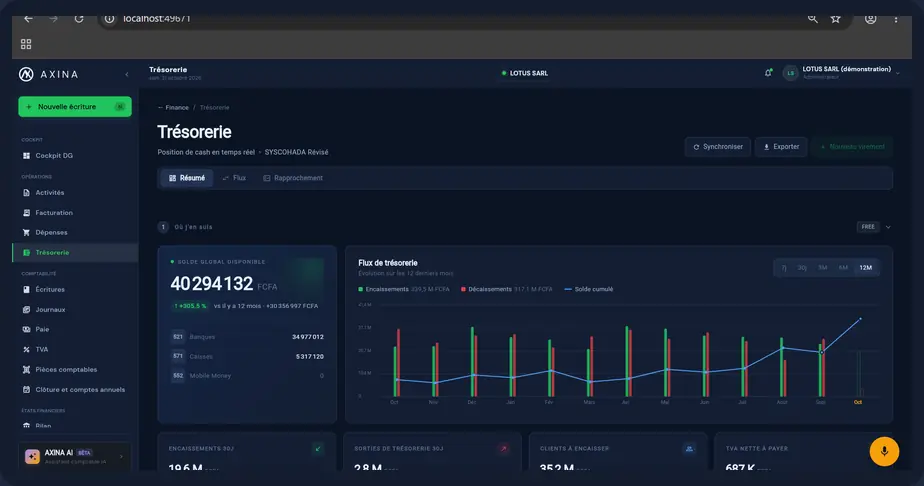
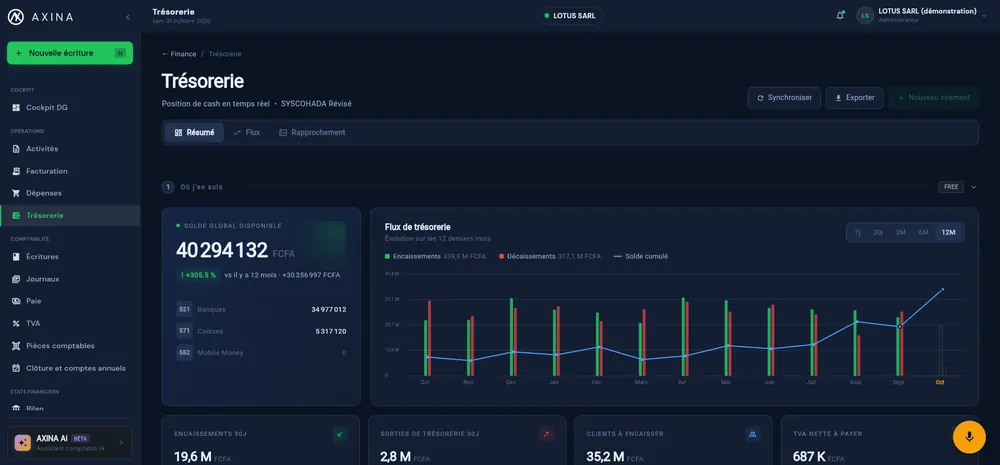
fix: device mockups side by side, crop localhost, AXINA blue cards

diff --git a/index.html b/index.html
@@ -32,7 +32,7 @@
 <link rel="apple-touch-icon" href="/assets/img/apple-touch-icon.png?v=3">
 <link rel="manifest" href="/site.webmanifest">
 <link rel="preload" href="/assets/fonts/geist.woff2" as="font" type="font/woff2" crossorigin>
-<link rel="stylesheet" href="/assets/axina.css?v=c8efe430">
+<link rel="stylesheet" href="/assets/axina.css?v=devices-blue-1">
 <script defer src="/assets/axina.js?v=c8efe430"></script>
 <script type="application/ld+json">{"@context":"https://schema.org","@graph":[{"@type":"Organization","@id":"https://axina.pro/#organisation","name":"AXINA","url":"https://axina.pro/","logo":"https://axina.pro/assets/img/icon-512.png","description":"Infrastructure financière de confiance pour les entreprises et les cabinets de l'espace OHADA.","areaServed":"Espace OHADA","contactPoint":{"@type":"ContactPoint","contactType":"customer support","telephone":"+240222619606","availableLanguage":["fr"]}},{"@type":"WebSite","@id":"https://axina.pro/#site","name":"AXINA","url":"https://axina.pro/","inLanguage":"fr","publisher":{"@id":"https://axina.pro/#organisation"}},{"@type":"SoftwareApplication","name":"AXINA","applicationCategory":"BusinessApplication","applicationSubCategory":"Comptabilité SYSCOHADA","operatingSystem":"Web","url":"https://axina.pro/","publisher":{"@id":"https://axina.pro/#organisation"},"description":"Comptabilité SYSCOHADA tenue en temps réel, écritures scellées et chaînées, pilotage, dossier bancaire et collaboration avec le cabinet comptable.","offers":{"@type":"AggregateOffer","priceCurrency":"XOF","lowPrice":"0","highPrice":"90000","offerCount":"9"}},{"@type":"FAQPage","mainEntity":[{"@type":"Question","name":"Qu'est-ce que le Data Integrity Protocol (DIP) ?","acceptedAnswer":{"@type":"Answer","text":"Le DIP est la couche d'intégrité d'AXINA. Il horodate chaque écriture, en calcule une empreinte SHA-256 et la chaîne à la précédente. Factures et dossiers portent un QR code qui permet de vérifier, en quelques secondes, qu'ils correspondent au registre. Le DIP établit que les chiffres n'ont pas bougé. Il ne remplace pas le visa d'un professionnel du chiffre."}},{"@type":"Question","name":"AXINA remplace-t-il le comptable ou le cabinet ?","acceptedAnswer":{"@type":"Answer","text":"Non. AXINA est conçu pour travailler avec les professionnels du chiffre. Le cabinet reste le garant de la validation comptable et fiscale, et son visa est nominatif. AXINA automatise les tâches répétitives pour que le comptable se concentre sur le conseil."}},{"@type":"Question","name":"AXINA respecte-t-il le SYSCOHADA ?","acceptedAnswer":{"@type":"Answer","text":"AXINA est conçu pour l'espace OHADA. Le plan comptable, les journaux et les états financiers suivent le SYSCOHADA révisé, dans les 17 pays membres. Les spécificités fiscales nationales sont paramétrées par pays."}},{"@type":"Question","name":"Les banques acceptent-elles les dossiers AXINA ?","acceptedAnswer":{"@type":"Answer","text":"La décision appartient toujours à la banque. Les dossiers AXINA suivent les formats et indicateurs financiers qu'elle utilise, et le QR code lui permet de vérifier l'origine des chiffres. Un dossier propre facilite l'instruction ; il ne garantit pas l'accord."}},{"@type":"Question","name":"Qui peut vérifier un document scellé DIP ?","acceptedAnswer":{"@type":"Answer","text":"N'importe qui. En scannant le QR code, une banque, un investisseur, un partenaire ou une administration consulte la fiche de vérification du document, sans compte AXINA."}},{"@type":"Question","name":"Mon cabinet peut-il travailler sur mon dossier ?","acceptedAnswer":{"@type":"Answer","text":"Oui, à partir de l'offre Business. Vous autorisez votre cabinet, vous définissez le périmètre de son mandat, et vous pouvez le révoquer. Le cabinet paie son propre abonnement AXINA Cabinet ; il ne remplace pas le vôtre."}},{"@type":"Question","name":"Comment fonctionne l'IA ?","acceptedAnswer":{"@type":"Answer","text":"Elle est désactivée par défaut. Vous pouvez utiliser un modèle local sur votre poste, ou votre propre clé API. Un service IA dans le cloud n'est possible qu'avec le consentement du dirigeant, daté et révocable. Dans tous les cas, l'IA commente des chiffres déjà calculés et n'écrit jamais dans votre comptabilité."}},{"@type":"Question","name":"Mes données sont-elles sécurisées ?","acceptedAnswer":{"@type":"Answer","text":"Vos données sont chiffrées en transit, hébergées sur des serveurs sécurisés, et jamais partagées sans votre autorisation. Seuls vous, votre cabinet sous mandat et les personnes que vous autorisez y ont accès."}},{"@type":"Question","name":"AXINA fonctionne-t-il sans connexion ?","acceptedAnswer":{"@type":"Answer","text":"AXINA privilégie un fonctionnement local. Les modules compatibles continuent de fonctionner hors ligne et se synchronisent au retour de la connexion."}},{"@type":"Question","name":"Comment démarrer ?","acceptedAnswer":{"@type":"Answer","text":"Créez votre compte avec l'offre Essentiel, gratuite, configurez votre entreprise, et passez à Business ou Premium quand vous en avez besoin."}},{"@type":"Question","name":"Puis-je changer de formule ?","acceptedAnswer":{"@type":"Answer","text":"Oui, vous pouvez passer à une formule supérieure à tout moment. Les modalités de facturation figurent dans vos conditions d'abonnement."}},{"@type":"Question","name":"Puis-je reprendre mes données existantes ?","acceptedAnswer":{"@type":"Answer","text":"Oui. AXINA importe vos données comptables existantes. La migration est un service à part, chiffré selon le volume et la complexité."}}]}]}</script>
 </head>
@@ -77,32 +77,34 @@
 <main id="main">
 
 <!-- HERO -->
-<section class="hero" style="background: linear-gradient(160deg, #0b1e3a 0%, #122a4a 50%, #0a1628 100%);">
+<section class="hero hero-blue">
   <div class="hero-glow"></div>
   <div class="wrap">
-    <div class="hero-inner" style="display:grid; grid-template-columns: 1fr 1fr; gap: 32px; align-items: center; padding: 70px 0 50px;">
+    <div class="hero-inner">
       <div>
-        <div class="hero-badge"><b>Nouveau</b> AXINA Cabinet · production en temps réel</div>
-        <h1 class="h-hero" style="font-size: clamp(46px, 5.5vw, 68px); line-height: .95; margin: 14px 0 18px;">
-          Structurez.<br>Scellez.<br>Pilotez.
-        </h1>
-        <p class="lead" style="font-size: 17.5px; max-width: 400px; color: rgba(255,255,255,.85);">
-          Votre comptabilité SYSCOHADA en temps réel, scellée et prête pour le financement.
-        </p>
-        <div class="hero-ctas" style="margin-top: 24px;">
+        <div class="hero-badge"><b>Nouveau</b>AXINA Cabinet relie le cabinet à ses clients, en temps réel</div>
+        <h1 class="h-hero">Structurez.<br>Scellez.<br>Pilotez.</h1>
+        <p class="lead">AXINA tient votre comptabilité SYSCOHADA au fil de l'eau, scelle chaque écriture dans un grand livre chaîné et vous donne les chiffres pour décider. Le financement devient la suite logique.</p>
+        <div class="hero-ctas">
           <button class="btn btn-seal" type="button" data-open="m-contact" data-preset="Créer mon compte AXINA">Créer mon compte gratuit</button>
           <a class="btn btn-ghost" href="/demo">Voir la démo</a>
         </div>
-        <div class="hero-proof" style="margin-top: 28px; gap: 20px;">
-          <div><strong>17 pays</strong> OHADA</div>
-          <div><strong>DIP</strong> SHA-256 chaîné</div>
-          <div><strong>0 FCFA</strong> pour démarrer</div>
+        <div class="hero-proof">
+          <div><strong>17 pays</strong>de l'espace OHADA</div>
+          <div><strong>SHA-256</strong>empreinte chaînée par écriture</div>
+          <div><strong>0 FCFA</strong>pour démarrer avec Essentiel</div>
         </div>
       </div>
-
-      <div style="display: flex; flex-direction: column; gap: 16px; align-items: flex-end;">
-        <img src="/assets/screenshots/cockpit.webp" alt="Cockpit AXINA" style="width: 78%; border-radius: 14px; box-shadow: 0 20px 50px -15px rgba(0,0,0,.6);">
-        <img src="/assets/screenshots/journaux.webp" alt="Journaux DIP" style="width: 62%; border-radius: 12px; box-shadow: 0 15px 40px -12px rgba(0,0,0,.7); margin-right: 8%;">
+      <div class="device-stage">
+        <div class="laptop">
+          <div class="laptop-lid">
+            <img src="/assets/screenshots/cockpit.webp" width="1400" height="650" alt="Cockpit AXINA sur ordinateur">
+          </div>
+          <div class="laptop-base" aria-hidden="true"><i></i></div>
+        </div>
+        <div class="tablet">
+          <img src="/assets/screenshots/depenses.webp" width="900" height="418" alt="Dépenses AXINA sur tablette">
+        </div>
       </div>
     </div>
   </div>
@@ -230,21 +232,24 @@
 
     <!-- Entreprises -->
     
-          <div class="ss-grid" style="margin-top:28px">
-            <figure class="ss-card">
-              <img src="/assets/screenshots/journaux.png" alt="Journaux scellés DIP" loading="lazy">
-              <figcaption>Journaux · 100 % scellés DIP</figcaption>
-            </figure>
-            <figure class="ss-card">
-              <img src="/assets/screenshots/tresorerie.png" alt="Trésorerie en temps réel" loading="lazy">
-              <figcaption>Trésorerie consolidée · flux 12 mois</figcaption>
-            </figure>
-            <figure class="ss-card">
-              <img src="/assets/screenshots/bilan.png" alt="Bilan SYSCOHADA" loading="lazy">
-              <figcaption>Bilan · ratios et verdict</figcaption>
-            </figure>
-          </div>
     <div class="panel" role="tabpanel" id="p-ent" aria-labelledby="u-ent">
+      <div class="device-row">
+        <figure>
+          <div class="mini-lid"><img src="/assets/screenshots/journaux.webp" width="1000" height="465" alt="Journaux scellés DIP" loading="lazy"></div>
+          <div class="mini-base" aria-hidden="true"></div>
+          <figcaption>Journaux · 100 % scellés DIP</figcaption>
+        </figure>
+        <figure>
+          <div class="mini-lid"><img src="/assets/screenshots/tresorerie.webp" width="1000" height="465" alt="Trésorerie en temps réel" loading="lazy"></div>
+          <div class="mini-base" aria-hidden="true"></div>
+          <figcaption>Trésorerie consolidée · flux 12 mois</figcaption>
+        </figure>
+        <figure>
+          <div class="mini-lid"><img src="/assets/screenshots/bilan.webp" width="1000" height="465" alt="Bilan SYSCOHADA" loading="lazy"></div>
+          <div class="mini-base" aria-hidden="true"></div>
+          <figcaption>Bilan · ratios et verdict</figcaption>
+        </figure>
+      </div>
       <div>
         <h3>Pilotez votre activité. Préparez votre financement.</h3>
         <p class="lead">Vos chiffres en temps réel, votre comptabilité OHADA tenue au fil de l'eau, votre dossier bancaire prêt à partir.</p>
@@ -445,17 +450,18 @@
     <div class="sec-head">
       <div class="kicker">AXINA Cabinet</div>
       <h2 class="h-sec">L'atelier de production du cabinet.</h2>
-      <div class="ss-grid">
-        <figure class="ss-card">
-          <img src="/assets/screenshots/cabinet-portefeuille.png" alt="Portefeuille clients AXINA Cabinet" loading="lazy">
-          <figcaption>Portefeuille multi-clients · scores · pipeline Prépa → Scellé</figcaption>
-        </figure>
-        <figure class="ss-card">
-          <img src="/assets/screenshots/cabinet-bannette.png" alt="Bannette de production cabinet" loading="lazy">
-          <figcaption>Bannette · tickets · cycle et couverture DIP 100 %</figcaption>
-        </figure>
-      </div>
       <p class="lead">Chaque dossier client avance dans une bannette, du premier rapprochement au scellement. Qui a fait quoi, quand et à quel titre : tout est tracé.</p>
+    </div>
+    <div class="device-stage device-stage-light">
+      <div class="laptop">
+        <div class="laptop-lid">
+          <img src="/assets/screenshots/cabinet-bannette.webp" width="1200" height="558" alt="Bannette de production AXINA Cabinet" loading="lazy">
+        </div>
+        <div class="laptop-base" aria-hidden="true"><i></i></div>
+      </div>
+      <div class="tablet">
+        <img src="/assets/screenshots/messages.webp" width="900" height="418" alt="Messages cabinet et entreprise sur tablette" loading="lazy">
+      </div>
     </div>
     <div class="pipeline">
       <div class="stage"><span class="n">Étape 1</span><h4>Préparation</h4><p>Le collaborateur rassemble les pièces, lie les écritures, demande ce qui manque au client.</p><div class="who">Collaborateur</div></div>

diff --git a/assets/axina.css b/assets/axina.css
@@ -215,7 +215,7 @@ section { position: relative; }
 .guide-opt:hover { border-color: var(--line-2); }
 .guide-opt[aria-pressed="true"] { border-color: var(--ink); box-shadow: 0 0 0 1px var(--ink); }
 .guide-opt svg { width: 18px; height: 18px; color: var(--ink-3); flex: none; }
-.guide-answer { background: var(--night); color: var(--white); border-radius: var(--r-l); padding: clamp(26px, 3.4vw, 40px); align-self: end; display: flex; flex-direction: column; justify-content: space-between; gap: 28px; position: relative; overflow: hidden; }
+.guide-answer { background: linear-gradient(165deg, #12315f, #0c2344); color: var(--white); border-radius: var(--r-l); padding: clamp(26px, 3.4vw, 40px); align-self: end; display: flex; flex-direction: column; justify-content: space-between; gap: 28px; position: relative; overflow: hidden; }
 .guide-answer::after { content: ""; position: absolute; right: -80px; bottom: -80px; width: 260px; height: 260px; border-radius: 50%; background: radial-gradient(circle, rgba(245, 165, 36, .25), transparent 70%); }
 .guide-answer h3 { font-size: 28px; margin-bottom: 14px; }
 .guide-answer p { color: var(--mist); font-size: 17px; }
@@ -280,7 +280,7 @@ details.more[open] summary svg { transform: rotate(180deg); }
 .shot-photo { border-radius: var(--r-l); overflow: hidden; aspect-ratio: 16 / 11; }
 .shot-photo img { width: 100%; height: 100%; object-fit: cover; }
 .shot-ui { position: relative; margin: -110px 0 0 auto; width: min(92%, 520px); background: var(--white); color: var(--ink); border-radius: 18px; box-shadow: 0 30px 70px -30px rgba(13, 23, 41, .45), 0 0 0 1px rgba(13, 23, 41, .06); padding: 18px; font-size: 13.5px; }
-.shot-ui.dark-ui { background: var(--night-2); color: var(--white); box-shadow: var(--shadow-float); }
+.shot-ui.dark-ui { background: linear-gradient(180deg, #16386a, #0e2a52); color: var(--white); box-shadow: var(--shadow-float); }
 .ui-head { display: flex; align-items: center; justify-content: space-between; margin-bottom: 14px; gap: 10px; }
 .ui-head b { font-size: 14.5px; }
 .ui-tag { font-size: 12px; font-weight: 600; padding: 4px 9px; border-radius: 999px; background: var(--green-wash); color: var(--green); white-space: nowrap; }
@@ -331,7 +331,7 @@ details.more[open] summary svg { transform: rotate(180deg); }
 .steps li::before { counter-increment: s; content: counter(s); width: 40px; height: 40px; border-radius: 12px; display: grid; place-items: center; font-family: var(--f-display); font-weight: 700; background: var(--ink); color: var(--white); }
 .steps h4 { font-size: 21px; margin-bottom: 6px; letter-spacing: -.015em; }
 .steps p { margin: 0; color: var(--ink-2); }
-.chain-card { background: var(--night); color: var(--white); border-radius: var(--r-l); padding: 22px; box-shadow: var(--shadow-card); }
+.chain-card { background: linear-gradient(165deg, #12315f, #0c2344); color: var(--white); border-radius: var(--r-l); padding: 22px; box-shadow: var(--shadow-card); }
 .block { border: 1px solid var(--line-dark); border-radius: 12px; padding: 12px 14px; font-family: var(--f-mono); font-size: 12px; color: var(--mist); position: relative; background: rgba(255, 255, 255, .02); }
 .block + .block { margin-top: 26px; }
 .block + .block::before { content: ""; position: absolute; left: 50%; top: -27px; width: 2px; height: 26px; background: linear-gradient(var(--seal), rgba(245, 165, 36, .2)); }
@@ -362,7 +362,7 @@ details.more[open] summary svg { transform: rotate(180deg); }
 .ai-mode { padding: 14px 18px; border-radius: var(--r-m); background: var(--white); border: 1px solid var(--line); }
 .ai-mode b { font-size: 16px; margin-right: 6px; }
 .ai-mode p { margin: 0; font-size: 15px; color: var(--ink-2); display: inline; }
-.voice { display: flex; align-items: center; gap: 16px; margin-top: 18px; padding: 16px 18px; border-radius: var(--r-m); background: var(--night); color: var(--white); }
+.voice { display: flex; align-items: center; gap: 16px; margin-top: 18px; padding: 16px 18px; border-radius: var(--r-m); background: linear-gradient(165deg, #12315f, #0c2344); color: var(--white); }
 .voice .wave { display: flex; gap: 3px; align-items: center; height: 28px; }
 .voice .wave i { width: 3px; border-radius: 3px; background: var(--seal); animation: wave 1.2s ease-in-out infinite; }
 .voice .wave i:nth-child(2) { animation-delay: .1s; } .voice .wave i:nth-child(3) { animation-delay: .2s; } .voice .wave i:nth-child(4) { animation-delay: .3s; } .voice .wave i:nth-child(5) { animation-delay: .4s; }
@@ -372,7 +372,7 @@ details.more[open] summary svg { transform: rotate(180deg); }
 
 /* ---------- Passeport ---------- */
 .passport { display: grid; grid-template-columns: 1fr 1fr; gap: clamp(28px, 5vw, 80px); align-items: center; }
-.pass-card { background: linear-gradient(145deg, #0f2140, #08111f 60%); color: var(--white); border-radius: 24px; padding: 28px; box-shadow: var(--shadow-float); position: relative; overflow: hidden; }
+.pass-card { background: linear-gradient(145deg, #14386a, #0c2748 62%); color: var(--white); border-radius: 24px; padding: 28px; box-shadow: var(--shadow-float); position: relative; overflow: hidden; }
 .pass-card::before { content: ""; position: absolute; inset: 0; background: repeating-linear-gradient(115deg, rgba(255, 255, 255, .025) 0 2px, transparent 2px 9px); pointer-events: none; }
 .pass-card .top { display: flex; justify-content: space-between; align-items: flex-start; gap: 12px; margin-bottom: 26px; position: relative; }
 .pass-card .co { font-family: var(--f-display); font-size: 26px; font-weight: 700; letter-spacing: -.02em; }
@@ -403,7 +403,7 @@ details.more[open] summary svg { transform: rotate(180deg); }
 .plans.five .price.quote { font-size: 28px; }
 .plans .plan { min-width: 0; }
 .plan { position: relative; background: var(--white); border: 1px solid var(--line); border-radius: var(--r-l); padding: 26px 22px; display: flex; flex-direction: column; }
-.plan.featured { background: var(--night); color: var(--white); border-color: var(--night); box-shadow: 0 30px 60px -30px rgba(6, 13, 26, .55); }
+.plan.featured { background: linear-gradient(180deg, #16386a, #0c2748); color: var(--white); border-color: #1a4a86; box-shadow: 0 30px 60px -30px rgba(12, 39, 72, .55); }
 .plan .flag { position: absolute; top: -12px; left: 22px; background: var(--seal); color: var(--night); font-size: 12.5px; font-weight: 700; padding: 4px 11px; border-radius: 999px; }
 .plan h3 { font-size: 22px; letter-spacing: -.015em; }
 .plan .for { color: var(--ink-3); font-size: 14.5px; margin: 6px 0 20px; min-height: 44px; }
@@ -754,45 +754,109 @@ details.more[open] summary svg { transform: rotate(180deg); }
 .mobile-menu .lang a { padding: 6px 12px; font-size: 14px; border: 0; }
 @media (max-width: 1080px) { .nav-right > .lang { display: none; } }
 
-/* ---------- Premium Screenshots ---------- */
-.ss-grid {
-  display: grid;
-  grid-template-columns: repeat(auto-fit, minmax(280px, 1fr));
-  gap: 20px;
-  margin-top: 32px;
+/* ---------- Devices (hero + sections) ---------- */
+.hero.hero-blue {
+  background:
+    radial-gradient(46% 55% at 82% 42%, rgba(32, 110, 196, .28), transparent 70%),
+    radial-gradient(38% 48% at 8% 0%, rgba(18, 49, 95, .55), transparent 72%),
+    linear-gradient(165deg, #071628 0%, #0c2748 46%, #12315f 100%);
+  padding-bottom: 28px;
 }
-.ss-card {
-  background: var(--night-2);
-  border: 1px solid var(--line-dark);
-  border-radius: var(--r-m);
-  overflow: hidden;
-  box-shadow: var(--shadow-float);
-  transition: transform .3s var(--ease), box-shadow .3s;
+#cabinets.sec.dark {
+  background: linear-gradient(180deg, #0b2344 0%, #12315f 48%, #0a1e3c 100%);
 }
-.ss-card:hover { transform: translateY(-4px); }
-.ss-card img {
-  width: 100%;
-  height: auto;
-  display: block;
-  border-bottom: 1px solid var(--line-dark);
-}
-.ss-card figcaption {
-  padding: 12px 16px;
-  font-size: 13.5px;
-  color: var(--mist);
-  line-height: 1.4;
-}
-.ss-float {
+.device-stage {
   position: relative;
-  max-width: 420px;
-  margin: 24px auto 0;
-  border-radius: var(--r-l);
-  overflow: hidden;
-  box-shadow: var(--shadow-float);
-  border: 1px solid rgba(255,255,255,.08);
+  margin: 6px 0 8px;
 }
-.ss-float img { width: 100%; height: auto; display: block; }
-@media (max-width: 860px) {
-  .ss-grid { grid-template-columns: 1fr; }
-  .ss-float { max-width: 100%; }
+.device-stage-light { margin: 8px 0 36px; }
+.laptop { width: 82%; filter: drop-shadow(0 28px 36px rgba(0, 0, 0, .42)); }
+.laptop-lid {
+  background: #101820;
+  border: 8px solid #2a3344;
+  border-bottom: 0;
+  border-radius: 14px 14px 0 0;
+  overflow: hidden;
+  line-height: 0;
+}
+.laptop-lid img { width: 100%; height: auto; display: block; }
+.laptop-base {
+  height: 16px;
+  border-radius: 0 0 12px 12px;
+  background: linear-gradient(180deg, #eef2f6, #c5ced8 50%, #98a2ae);
+  position: relative;
+}
+.laptop-base i {
+  position: absolute;
+  left: 50%;
+  top: 0;
+  transform: translateX(-50%);
+  width: 18%;
+  height: 7px;
+  background: #d5dce4;
+  border-radius: 0 0 8px 8px;
+}
+.tablet {
+  position: absolute;
+  width: 44%;
+  right: 0;
+  bottom: 10px;
+  background: linear-gradient(180deg, #1c2636, #121820);
+  border-radius: 18px;
+  padding: 12px 10px 10px;
+  box-shadow: 0 24px 48px -18px rgba(0, 0, 0, .62), 0 0 0 1px rgba(255, 255, 255, .08);
+  line-height: 0;
+}
+.tablet::before {
+  content: "";
+  position: absolute;
+  top: 4px;
+  left: 50%;
+  width: 6px;
+  height: 6px;
+  margin-left: -3px;
+  border-radius: 50%;
+  background: #4a5668;
+}
+.tablet img { width: 100%; height: auto; display: block; border-radius: 8px; }
+.device-row {
+  display: flex;
+  gap: 16px;
+  grid-column: 1 / -1;
+  margin: 0 0 8px;
+}
+.device-row figure {
+  flex: 1 1 0;
+  min-width: 0;
+  margin: 0;
+  background: linear-gradient(180deg, #16386a, #0e2a52);
+  border: 1px solid rgba(255, 255, 255, .12);
+  border-radius: 16px;
+  padding: 12px 12px 14px;
+  color: #fff;
+  box-shadow: 0 18px 40px -28px rgba(8, 24, 48, .8);
+}
+.mini-lid {
+  background: #0c1c33;
+  border-radius: 8px 8px 0 0;
+  overflow: hidden;
+  line-height: 0;
+  border: 1px solid rgba(255, 255, 255, .08);
+  border-bottom: 0;
+}
+.device-row img { width: 100%; height: auto; display: block; }
+.mini-base {
+  height: 9px;
+  margin-bottom: 10px;
+  background: linear-gradient(180deg, #e7edf4, #b4bec9);
+  border-radius: 0 0 7px 7px;
+}
+.device-row figcaption { font-size: 13.5px; line-height: 1.35; color: rgba(255, 255, 255, .9); }
+@media (max-width: 900px) {
+  .laptop { width: 74%; }
+  .tablet { width: 46%; bottom: 0; }
+}
+@media (max-width: 720px) {
+  .device-row { overflow-x: auto; padding-bottom: 8px; }
+  .device-row figure { flex: 0 0 78%; }
 }
